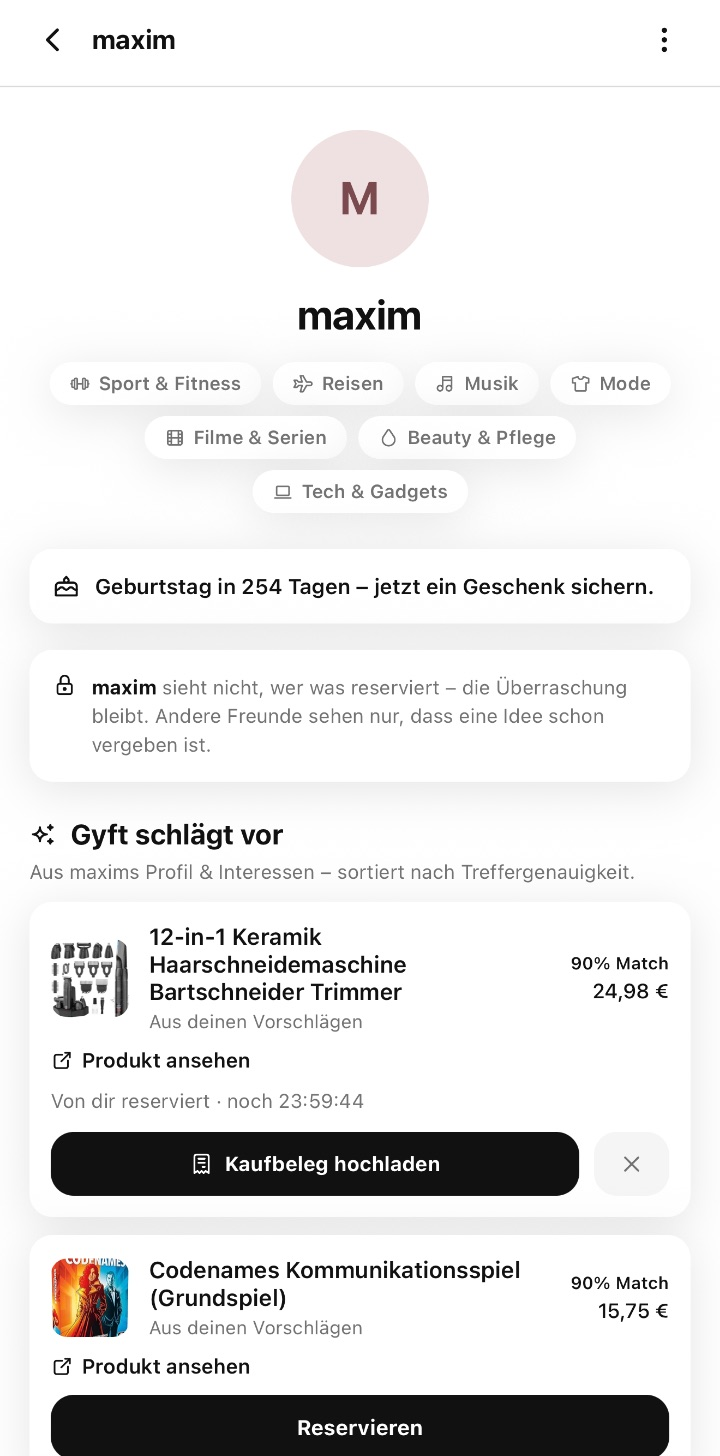
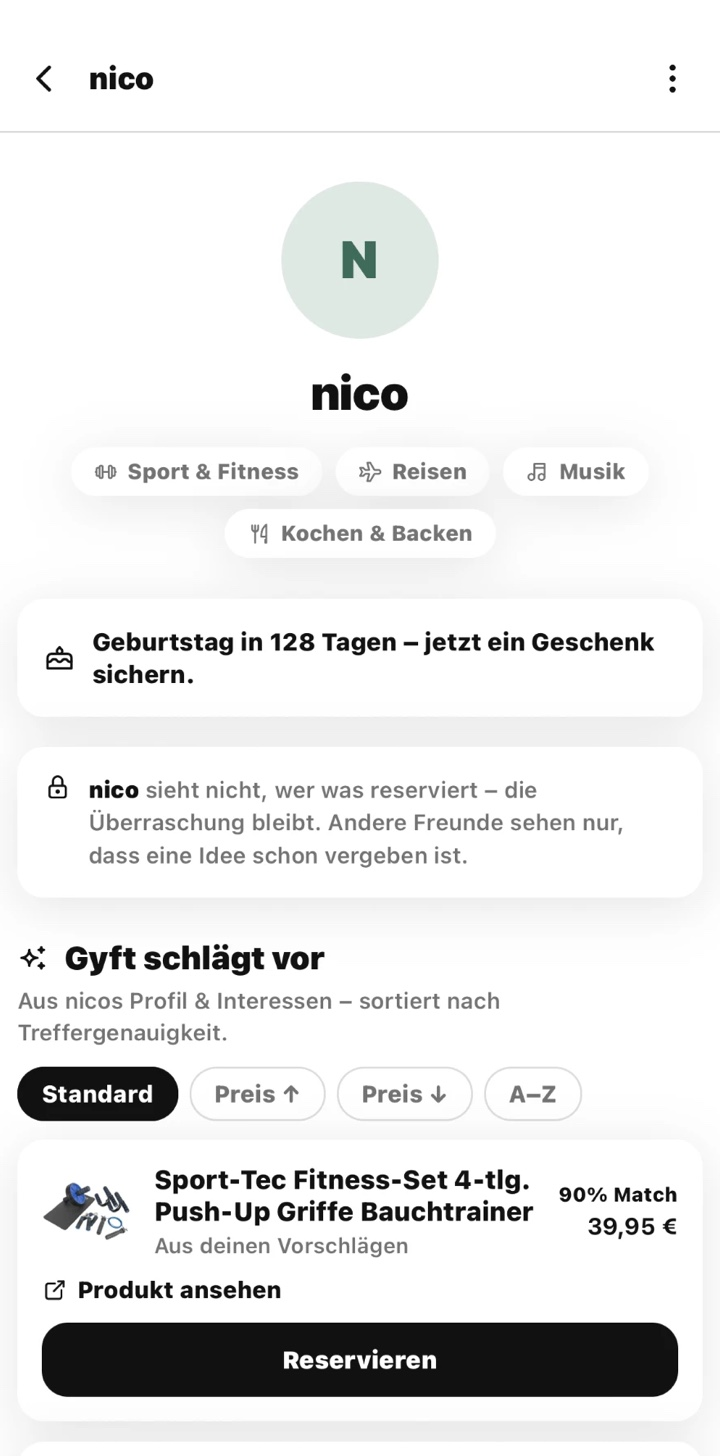
Freundesprofil-Aufnahme ersetzt: der alte Screenshot zeigte Kaufbelege
Das Bild im Abschnitt "Kein Raetselraten mehr" war vom 18.09. und zeigte
einen Knopf "Kaufbeleg hochladen". Diese Funktion ist am 19.09. ausgebaut
worden (Client, RPC confirm_purchase und der Bucket receipts sind weg) -- die
Seite warb also mit etwas, das es nicht mehr gibt.

Die neue Aufnahme stammt aus der laufenden App und zeigt, worum es in dem
Abschnitt geht: Interessen, Geburtstags-Erinnerung, den Hinweis auf die
anonyme Reservierung und die Vorschlagsliste mit Reservieren-Knopf. Statusbar
weggeschnitten wie bei den uebrigen Aufnahmen, 720x1456.

Alt-Text nachgezogen: Er nannte "eine bereits reservierte Idee", die auf dem
neuen Bild nicht zu sehen ist.

diff --git a/index.html b/index.html
@@ -147,7 +147,7 @@
 
     <div class="feat flip">
       <div class="feat-img">
-        <div class="phone single"><img src="/assets/profil.jpg" width="720" height="1456" loading="lazy" alt="Das Profil eines Freundes mit Interessen, Geburtstags-Erinnerung, dem Hinweis auf die anonyme Reservierung und einer bereits reservierten Idee." /></div>
+        <div class="phone single"><img src="/assets/profil.jpg" width="720" height="1456" loading="lazy" alt="Das Profil eines Freundes in Gyft: Interessen, die Erinnerung an seinen Geburtstag, der Hinweis auf die anonyme Reservierung und darunter die Vorschlagsliste mit einem Knopf zum Reservieren." /></div>
       </div>
       <div class="feat-text">
         <p class="label">Geschenk finden</p>
